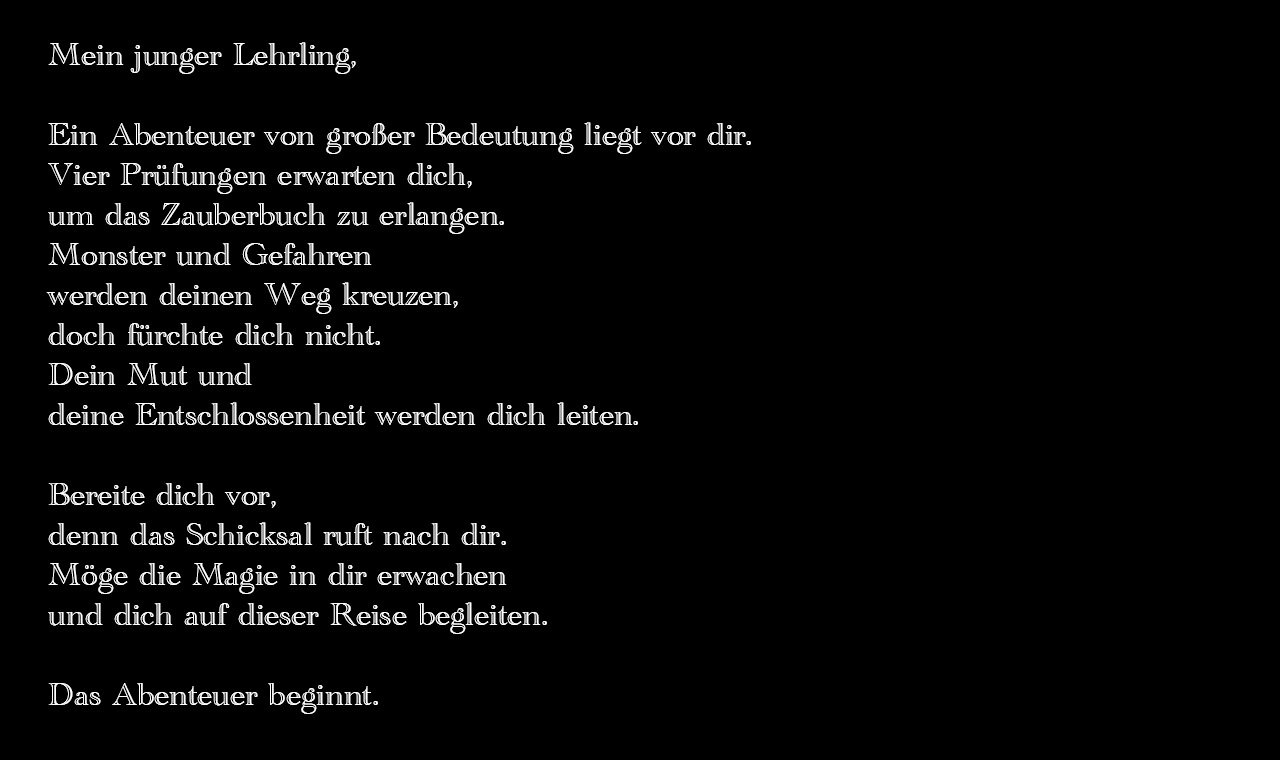
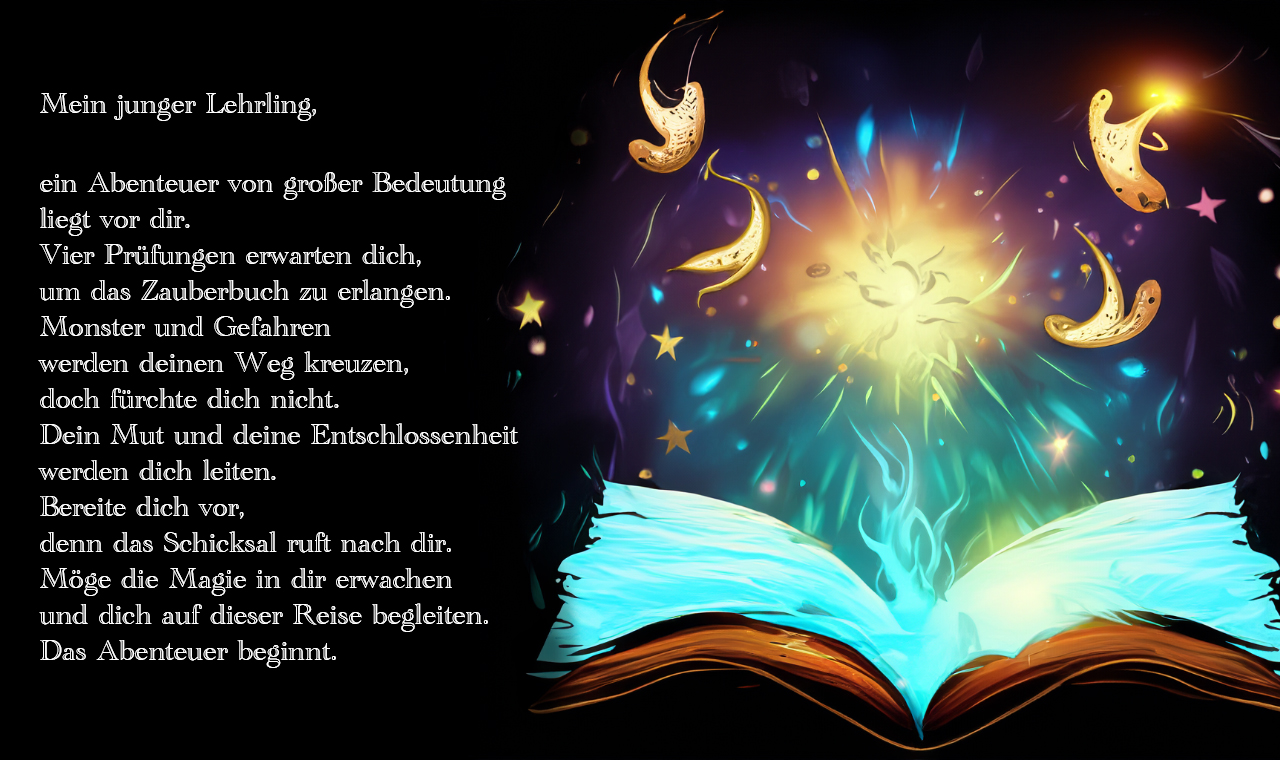
Bilder hinzugefügt; Keylistener für win und lose screen hinzugefügt(not working)

diff --git a/src/Main.java b/src/Main.java
@@ -23,7 +23,7 @@ public class Main implements Redirector {
         mainFrame = new JFrame("Die Abenteuer des kleinen Zauberlehrlings");
         menu = new Menu(this);
         lose = new Lose();
-//        win = new Win(mainFrame, this);
+        win = new Win();
         story = new Story();
     }
 
@@ -35,6 +35,7 @@ public class Main implements Redirector {
         mainFrame.setDefaultCloseOperation(JFrame.EXIT_ON_CLOSE);
         mainFrame.setSize(1280, 760);
         mainFrame.setResizable(false);
+        mainFrame.setIconImage(new ImageIcon("src/resources/game/icon.jpg").getImage());
         initMenu();
     }
 
@@ -97,7 +98,10 @@ public class Main implements Redirector {
         mainFrame.add(lose);
         mainFrame.revalidate();
 
-        mainFrame.addKeyListener(controller); // ESC für Back to Menu
+        mainFrame.requestFocus();
+        mainFrame.addKeyListener(controller);
+
+        controller.winOrLose();
 
         mainFrame.repaint();
         mainFrame.setVisible(true);
@@ -109,6 +113,11 @@ public class Main implements Redirector {
 
         mainFrame.add(win);
         mainFrame.revalidate();
+
+        mainFrame.requestFocus();
+        mainFrame.addKeyListener(controller);
+
+        controller.winOrLose();
 
         mainFrame.repaint();
         mainFrame.setVisible(true);

diff --git a/src/controller/Controller.java b/src/controller/Controller.java
@@ -37,6 +37,11 @@ public class Controller extends KeyAdapter {
         timer.start();
     }
 
+    public void winOrLose() {
+        this.timer = new Timer(16, e -> winOrLoseLoop());
+        timer.start();
+    }
+
     private void gameLoop() {
         if (keys[KeyEvent.VK_UP]) model.movePlayerUp();
         if (keys[KeyEvent.VK_DOWN]) model.movePlayerDown();
@@ -58,7 +63,7 @@ public class Controller extends KeyAdapter {
             } else {
                 timer.stop();
                 model.resetLevel(name);
-//                redirector.win();
+                redirector.win();
                 return;
             }
         }
@@ -77,6 +82,14 @@ public class Controller extends KeyAdapter {
         model.moveSpells();
         model.isEnemieHit();
         view.repaint();
+    }
+
+    private void winOrLoseLoop() {
+        if (keys[KeyEvent.VK_ESCAPE]) {
+            timer.stop();
+            model.saveLevel(name);
+            redirector.menu();
+        }
     }
 
     private boolean canShoot() {

diff --git a/src/model/MainModel.java b/src/model/MainModel.java
@@ -49,7 +49,7 @@ public class MainModel {
     // Spells spawnen
 
     public void shootSpell() {
-        spells.add(new Spells(spellImage, 10, 10, player.getX(), player.getY()+20));
+        spells.add(new Spells(spellImage, 10, 10, player.getX()+115, player.getY()+35));
     }
 
     // Gegner spawnen
